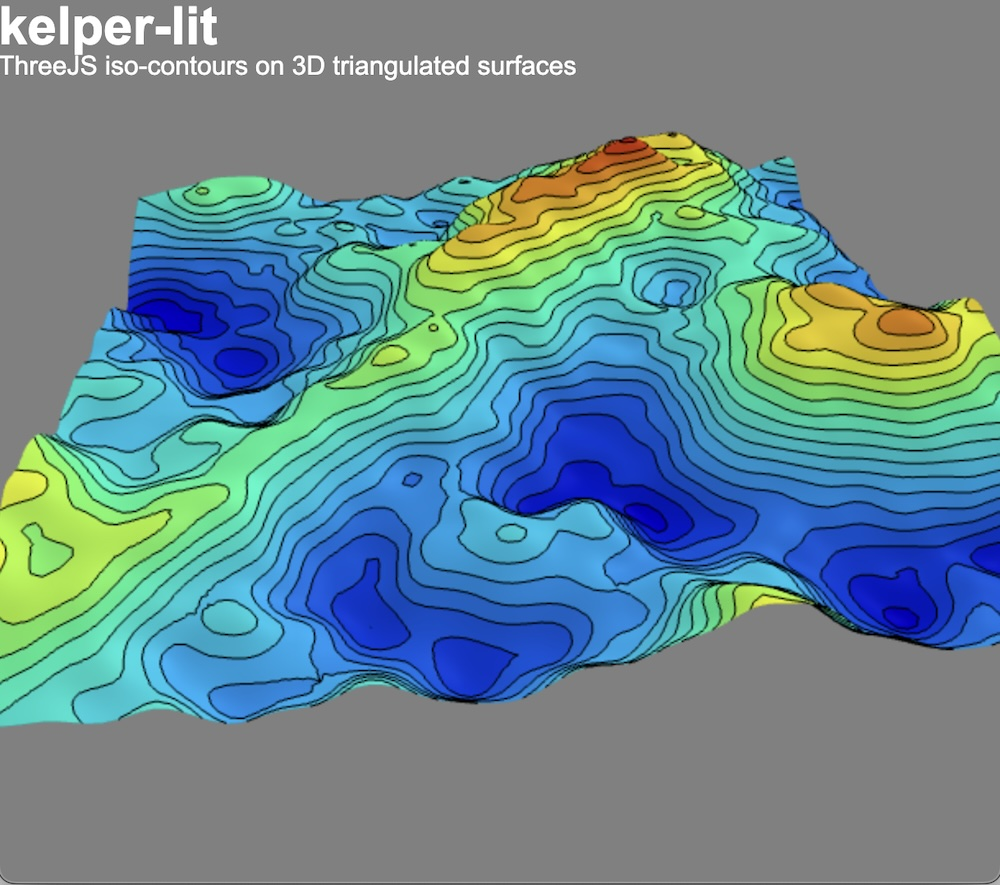
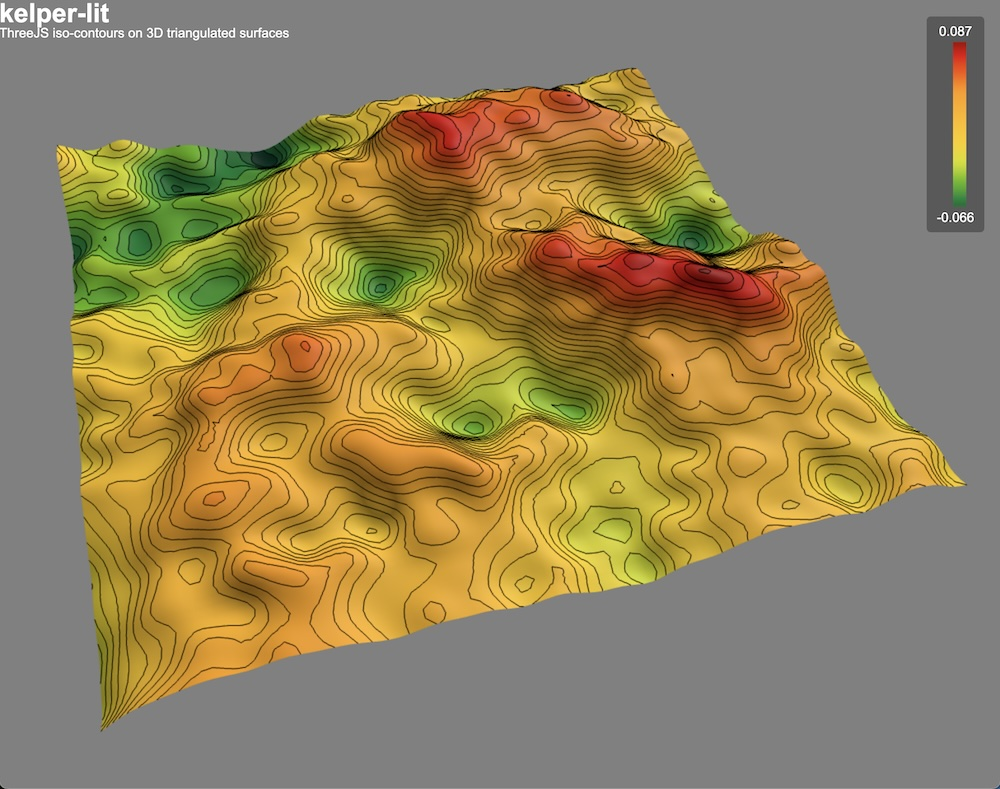
added colorscale

diff --git a/src/View.ts b/src/View.ts
@@ -4,33 +4,35 @@ import { AmbientLight, Color, DirectionalLight, PerspectiveCamera, Scene, WebGLR
 import { TrackballControls } from 'three/examples/jsm/controls/TrackballControls'
 import { Surface } from "./Surface";
 import { generateIsoValues } from "./utils/generateIsoValues";
-import { minMax } from "./utils/utils";
 import { generateTerrain } from "./utils/TerrainGenerator";
-import { colorScale } from "./utils/colorScale"
+import { Colorbar } from "./utils/colorbar";
 
 export default class View {
-	private renderer: THREE.WebGLRenderer
-	private scene: THREE.Scene
-	private camera: THREE.PerspectiveCamera
+	private renderer: WebGLRenderer
+	private scene: Scene
+	private camera: PerspectiveCamera
 	private controls: TrackballControls
 	private surface: Surface
+	private colorbar: Colorbar
+	private colorbarContainer: HTMLDivElement
 
 	constructor(canvasElem: HTMLCanvasElement) {
 		this.renderer = new WebGLRenderer({
 			canvas: canvasElem,
 			antialias: true,
 		})
+
 		this.camera = new PerspectiveCamera(45, 1, 0.01, 1000)
 		this.camera.position.z = 2
 
 		this.scene = new Scene()
 		this.scene.background = new Color("gray")
 
-		const dirLight1 = new DirectionalLight(0x111111, 3);
+		const dirLight1 = new DirectionalLight(0xffffff, 3);
 		dirLight1.position.set(100, 100, 100);
 		this.scene.add(dirLight1);
 
-		const dirLight2 = new DirectionalLight(0x111111, 3);
+		const dirLight2 = new DirectionalLight(0xffffff, 3);
 		dirLight2.position.set(-100, -100, -100);
 		this.scene.add(dirLight2);
 
@@ -39,7 +41,7 @@ export default class View {
 
 		this.controls = new TrackballControls(this.camera, this.renderer.domElement)
 
-		const {vertices, indices} = generateTerrain({
+		const { vertices, indices } = generateTerrain({
 			width: 1,
 			height: 1,
 			resolution: 100,
@@ -52,22 +54,21 @@ export default class View {
 		// The important part
 		// -------------------------------------------------------
 		this.surface = new Surface(vertices, indices, this.scene)
-
 		const attribute = vertices.filter((_, index) => index % 3 === 2);
+		const lut = 'Igeoss' // "Cooltowarm", "Blackbody", "Grayscale", "Insar", "InsarBanded", "Rainbow", "Igeoss", "Stress", "Blue_White_Red", "Blue_Green_Red", "Spectrum", "Default", "Banded"
+		const nbIsos = 30
 
-		/*  Possible color tables
-			"Cooltowarm", "Blackbody", "Grayscale", "Insar", "InsarBanded",
-			"Rainbow", "Igeoss", "Stress", "Blue_White_Red", "Blue_Green_Red",
-			"Spectrum", "Default", "Banded"
-		*/
 		this.surface.generateIsos({
 			attribute,
-			isoList: generateIsoValues(attribute, 20), // 20 iso-contours
-			lut: 'Cooltowarm',
+			isoList: generateIsoValues(attribute, nbIsos),
+			lut,
 			viewFilled: true,
 			viewLines: true
 		})
 		// -------------------------------------------------------
+
+		// Create colorbar
+		this.setupColorbar(lut, nbIsos, Math.min(...attribute), Math.max(...attribute));
 
 		// Set initial sizes
 		this.onWindowResize(window.innerWidth, window.innerHeight)
@@ -78,10 +79,65 @@ export default class View {
 		this.camera.aspect = vpW / vpH
 		this.camera.updateProjectionMatrix()
 		this.controls.handleResize()
+
+		this.colorbar.renderer.setSize(60, 200);
 	}
 
 	public update(): void {
 		this.renderer.render(this.scene, this.camera)
 		this.controls.update()
+		this.colorbar.render(this.renderer)
+	}
+
+	private setupColorbar(lutName: string, nbr: number, min: number, max: number) {
+		// Create wrapper container for colorbar and labels
+		const wrapper = document.createElement('div');
+
+		wrapper.style.position = 'absolute';
+		wrapper.style.top = '20px';
+		wrapper.style.right = '20px';
+		wrapper.style.display = 'flex';
+		wrapper.style.flexDirection = 'column';
+		wrapper.style.alignItems = 'center';
+		wrapper.style.padding = '10px';
+		wrapper.style.background = 'rgba(0, 0, 0, 0.3)';
+		wrapper.style.borderRadius = '5px';
+		document.body.appendChild(wrapper);
+
+		// Add max value label
+		const maxLabel = document.createElement('div');
+		maxLabel.textContent = max.toFixed(3);
+		maxLabel.style.color = 'white';
+		maxLabel.style.marginBottom = '5px';
+		maxLabel.style.fontFamily = 'Arial, sans-serif';
+		wrapper.appendChild(maxLabel);
+
+		// Create container for colorbar
+		this.colorbarContainer = document.createElement('div');
+		this.colorbarContainer.style.width = '50px';  // Increased width
+		this.colorbarContainer.style.height = '200px'; // Increased height
+		wrapper.appendChild(this.colorbarContainer);
+
+		// Add min value label
+		const minLabel = document.createElement('div');
+		minLabel.textContent = min.toFixed(3);
+		minLabel.style.color = 'white';
+		minLabel.style.marginTop = '5px';
+		minLabel.style.fontFamily = 'Arial, sans-serif';
+		wrapper.appendChild(minLabel);
+
+		// Create colorbar
+		this.colorbar = new Colorbar({
+			lutName,
+			min,
+			max,
+			nbr,
+			x: 0,    // Center position
+			y: 0,    // Center position
+			z: 1     // In front
+		});
+
+		// Add colorbar renderer to container
+		this.colorbarContainer.appendChild(this.colorbar.renderer.domElement);
 	}
 }

diff --git a/web/index.html b/web/index.html
@@ -14,7 +14,7 @@
 			margin: 0px;
 			padding: 0px;
 			overflow: hidden;
-			background: #000;
+			background: #5e5e5e;
 			height: 100%;
 			font-family: Arial, Helvetica, sans-serif;
 			color: #fff;
@@ -41,20 +41,14 @@
 </head>
 
 <body>
-
 	<main id="pageMain">
-		<div id="color-scale"></div>
-		<canvas id="webgl-canvas"></canvas>
-
 		<header>
 			<h1>kelper-lit</h1>
 			<p>ThreeJS iso-contours on 3D triangulated surfaces</p>
 		</header>
+		<canvas id="webgl-canvas"></canvas>
 	</main>
-
-	<!-- JS Bundle --> 
 	<script src="js/main.js"></script>
-
 </body>
 
 </html>

diff --git a/src/utils/colorbar.ts b/src/utils/colorbar.ts
@@ -16,7 +16,8 @@ export class Colorbar {
         this.sprite = new Sprite( new SpriteMaterial( {
             map: new CanvasTexture( this.lut.createCanvas() )
         } ) )
-        this.sprite.scale.x = 0.125
+        this.sprite.scale.x = 0.525
+        this.sprite.scale.y = 2
 
         this.scene = new Scene()
         this.scene.add( this.sprite )
